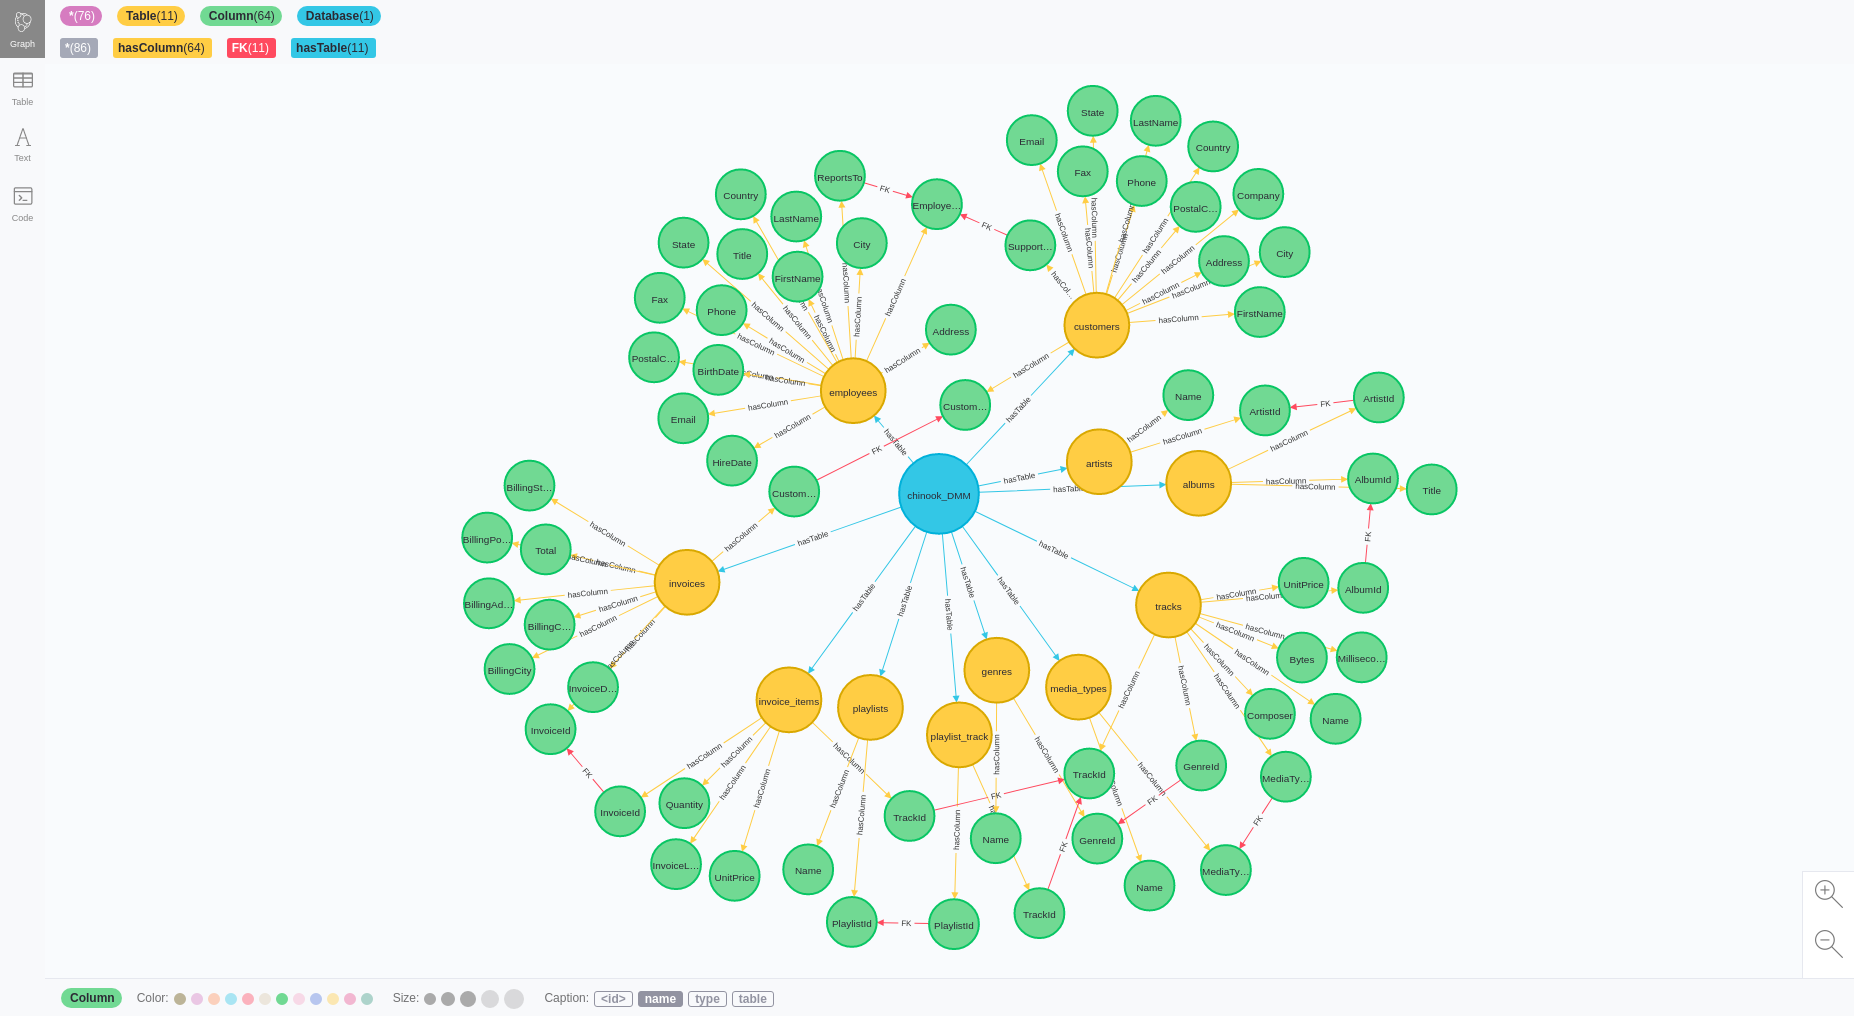
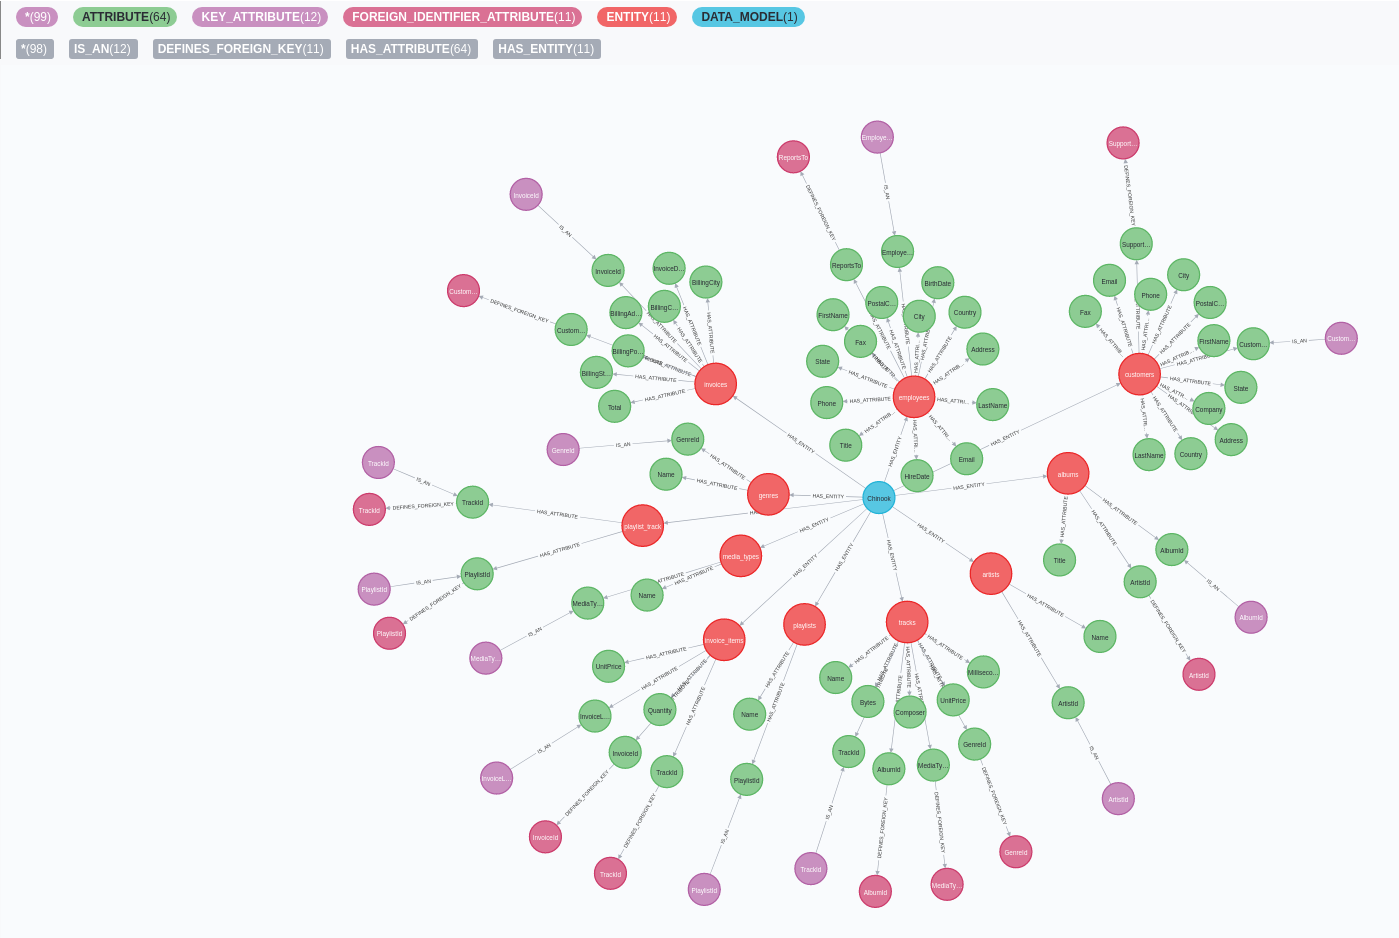
Refactor dmmm implementation according to outline model

diff --git a/main.py b/main.py
@@ -138,50 +138,71 @@ foreign_key_model = QStringListModel()
 # Beginning of Neo4j operations
 neo4j = Neo4jOperations("bolt://localhost:7687", "neo4j", "123456")
 
-mainNodeName = "chinook_DMM"
-mainNodeType = "Database"
-tableNodeType = "Table"
-columnNodeType = "Column"
-dbToTableRelationship = "hasTable"
-tableToColumnRelationship = "hasColumn"
-columnToColumnForeignKeyRelationship = "FK"
+neo4j.create_node("Chinook", "DATA_MODEL")
 
-neo4j.create_node(mainNodeName, mainNodeType)
+for entity_name in table_names_list:
+    # create entity to neo4j
+    neo4j.create_node(entity_name, "ENTITY")
+    # create relationship between data model and entity
+    neo4j.create_relationship("Chinook", "DATA_MODEL", entity_name, "ENTITY", "HAS_ENTITY")
 
-for table_name in table_names_list:
-    # add table names to neo4j
-    neo4j.create_node(table_name, tableNodeType)
-    neo4j.create_relationship(mainNodeName, mainNodeType, table_name, tableNodeType, dbToTableRelationship)
-
-for table_name in table_names_list:
-    # add column names and their types to neo4j
-    rows = dbOperations.select_all_column_names_and_types(table_name)
+for entity_name in table_names_list:
+    rows = dbOperations.select_all_column_names_and_types(entity_name)
     for row in rows:
-        column_name = str(row[1])
-        column_type = str(row[2])
-        neo4j.create_column_node(column_name, table_name, column_type)
-        neo4j.create_relationship_table_to_column(table_name, tableNodeType, column_name, table_name,
-                                                  tableToColumnRelationship)
+        attribute_name = str(row[1])
+        attribute_type = str(row[2])
+        is_attribute_pk = int(row[5])
 
-for table_name in table_names_list:
-    # add foreign key relationship between column names to neo4j
-    rows = dbOperations.select_all_foreign_keys(table_name)
+        # create attribute with attr type and its related entity
+        neo4j.create_attribute_node(attribute_name, attribute_type, entity_name)
+        # create relationship between entity and its attribute
+        query = """
+                MATCH (a:ENTITY), (b:ATTRIBUTE)
+                WHERE a.name='%s' AND b.entity='%s'
+                MERGE  (a)-[:%s]->(b)
+                """ % (entity_name, entity_name, "HAS_ATTRIBUTE")
+        neo4j.run_custom_query(query)
+
+        if is_attribute_pk:
+            # create key attribute with its related entity
+            neo4j.create_key_attribute_node(attribute_name, entity_name)
+            # create relationship between attribute and key attribute
+            query = """
+                    MATCH (a:KEY_ATTRIBUTE), (b:ATTRIBUTE)
+                    WHERE a.name=b.name AND a.entity=b.entity
+                    MERGE  (a)-[:IS_AN]->(b)
+                    """
+            neo4j.run_custom_query(query)
+
+    # find foreign identifier attributes
+    rows = dbOperations.select_all_foreign_keys(entity_name)
     for row in rows:
-        from_column_name = str(row[3])
-        from_table_name = table_name
-        to_column_name = str(row[4])
-        to_table_name = str(row[2])
+        from_entity = entity_name
+        to_entity = str(row[2])
+        from_attribute = str(row[3])
+        to_attribute = str(row[4])
 
-        neo4j.create_relationship_column_to_column_fk(from_column_name, from_table_name, to_column_name,
-                                                      to_table_name, columnToColumnForeignKeyRelationship)
+        # create foreign identifier attribute with from-to entity name and from-to attr name
+        neo4j.create_fia_node(from_attribute, from_entity, to_entity, from_attribute, to_attribute)
+        # create relationship between attribute and foreign identifier attribute
+        query = """
+                MATCH (a:ATTRIBUTE), (b:FOREIGN_IDENTIFIER_ATTRIBUTE)
+                WHERE a.name=b.name AND a.entity=b.from_entity
+                MERGE  (a)-[:DEFINES_FOREIGN_KEY]->(b)
+                """
+        neo4j.run_custom_query(query)
 
 neo4j.close()
 # End of Neo4j operations
 
+
 def create_dmmm_outline():
+    neo4j = Neo4jOperations("bolt://localhost:7687", "neo4j", "123456")
+
     neo4j.create_node("DATA MODEL", "DATA_MODEL")
     neo4j.create_node("DATA MODEL ENTITY", "DATA_MODEL_ENTITY")
-    neo4j.create_relationship("DATA MODEL", "DATA_MODEL", "DATA MODEL ENTITY", "DATA_MODEL_ENTITY", "DefinesBusinessContextFor")
+    neo4j.create_relationship("DATA MODEL", "DATA_MODEL", "DATA MODEL ENTITY", "DATA_MODEL_ENTITY",
+                              "DefinesBusinessContextFor")
     neo4j.create_node("ENTITY", "ENTITY")
     neo4j.create_relationship("ENTITY", "ENTITY", "DATA MODEL ENTITY", "DATA_MODEL_ENTITY", "HasItsBusinessContext")
     neo4j.create_node("RELATIONSHIP", "RELATIONSHIP")
@@ -191,19 +212,32 @@ def create_dmmm_outline():
     neo4j.create_relationship("ENTITY", "ENTITY", "ATTRIBUTE", "ATTRIBUTE", "HasItsProperties")
     neo4j.create_node("FOREIGN IDENTIFIER", "FOREIGN_IDENTIFIER")
     neo4j.create_relationship("ATTRIBUTE", "ATTRIBUTE", "FOREIGN IDENTIFIER", "FOREIGN_IDENTIFIER", "ContributesTo")
-    neo4j.create_relationship("FOREIGN IDENTIFIER", "FOREIGN_IDENTIFIER", "RELATIONSHIP", "RELATIONSHIP", "ProvidesThePath")
+    neo4j.create_relationship("FOREIGN IDENTIFIER", "FOREIGN_IDENTIFIER", "RELATIONSHIP", "RELATIONSHIP",
+                              "ProvidesThePath")
+    neo4j.create_node("FOREIGN IDENTIFIER ATTRIBUTE", "FOREIGN_IDENTIFIER_ATTRIBUTE")
+    neo4j.create_relationship("FOREIGN IDENTIFIER", "FOREIGN_IDENTIFIER", "FOREIGN IDENTIFIER ATTRIBUTE",
+                              "FOREIGN_IDENTIFIER_ATTRIBUTE", "IsMadeUpOf")
+    neo4j.create_relationship("ATTRIBUTE", "ATTRIBUTE", "FOREIGN IDENTIFIER ATTRIBUTE",
+                              "FOREIGN_IDENTIFIER_ATTRIBUTE", "DefinesForeignKeyRoleOf")
     neo4j.create_node("DOMAIN", "DOMAIN")
     neo4j.create_relationship("ATTRIBUTE", "ATTRIBUTE", "DOMAIN", "DOMAIN", "ConstrainsTheValuesOf")
     neo4j.create_relationship("DOMAIN", "DOMAIN", "ATTRIBUTE", "ATTRIBUTE", "HasTheSetOf")
     neo4j.create_node("ATTRIBUTE TYPE", "ATTRIBUTE_TYPE")
     neo4j.create_relationship("ATTRIBUTE TYPE", "ATTRIBUTE_TYPE", "DOMAIN", "DOMAIN", "ConstrainsTheGenericNatureOf")
-    neo4j.create_relationship("ATTRIBUTE TYPE", "ATTRIBUTE_TYPE", "ATTRIBUTE", "ATTRIBUTE", "ConstrainsTheGenericNatureOf")
+    neo4j.create_relationship("ATTRIBUTE TYPE", "ATTRIBUTE_TYPE", "ATTRIBUTE", "ATTRIBUTE",
+                              "ConstrainsTheGenericNatureOf")
     neo4j.create_node("IDENTIFIER", "IDENTIFIER")
     neo4j.create_relationship("ATTRIBUTE", "ATTRIBUTE", "IDENTIFIER", "IDENTIFIER", "FormsTheComponent")
     neo4j.create_relationship("ENTITY", "ENTITY", "IDENTIFIER", "IDENTIFIER", "IdentifiedBy")
     neo4j.create_node("KEY ATTRIBUTE", "KEY_ATTRIBUTE")
     neo4j.create_relationship("KEY ATTRIBUTE", "KEY_ATTRIBUTE", "ATTRIBUTE", "ATTRIBUTE", "IsAn")
     neo4j.create_relationship("IDENTIFIER", "IDENTIFIER", "KEY ATTRIBUTE", "KEY_ATTRIBUTE", "IsComposedOf")
+
+    neo4j.close()
+
+
+# create dmmm outline of chinook database
+# create_dmmm_outline()
 
 
 if __name__ == "__main__":

diff --git a/neo4joperations.py b/neo4joperations.py
@@ -24,20 +24,8 @@ class Neo4jOperations:
         else:
             return False  # node exists
 
-    def check_column_node(self, name, tableName, type):
-        query = """
-            MATCH (a:Column {name: '%s', table: '%s', type: '%s'})
-            RETURN (COUNT(a))
-            """ % (name, tableName, type)
-        results = self.session.run(query)
-
-        for result in results:
-            count = result[0]
-
-        if count == 0:
-            return True  # node does not exist
-        else:
-            return False  # node exists
+    def run_custom_query(self, query):
+        self.session.run(query)
 
     def create_node(self, name, nodeType):
         if self.check_node(name, nodeType):
@@ -50,16 +38,24 @@ class Neo4jOperations:
             print("Node is already existent")
             return False
 
-    def create_column_node(self, name, tableName, type):
-        if self.check_column_node(name, tableName, type):
-            query = """
-                    MERGE (a:Column {name: '%s', table: '%s', type: '%s'})
-                    """ % (name, tableName, type)
-            self.session.run(query)
-            return True
-        else:
-            print("Node is already existent")
-            return False
+    def create_attribute_node(self, name, attr_type, entity_name):
+        query = """
+                MERGE (a:ATTRIBUTE {name: '%s', attr_type: '%s', entity: '%s'})
+                """ % (name, attr_type, entity_name)
+        self.session.run(query)
+
+    def create_key_attribute_node(self, name, entity_name):
+        query = """
+                MERGE (a:KEY_ATTRIBUTE {name: '%s', entity: '%s'})
+                """ % (name, entity_name)
+        self.session.run(query)
+
+    def create_fia_node(self, name, from_entity, to_entity, from_attr, to_attr):
+        query = """
+                MERGE (a:FOREIGN_IDENTIFIER_ATTRIBUTE {name: '%s', from_entity: '%s', to_entity: '%s', from_attr: '%s', 
+                to_attr: '%s'})
+                """ % (name, from_entity, to_entity, from_attr, to_attr)
+        self.session.run(query)
 
     def create_relationship(self, fromName, fromNodeType, toName, toNodeType, relationName):
         query = """
@@ -67,20 +63,4 @@ class Neo4jOperations:
                 WHERE a.name='%s' AND b.name='%s'
                 MERGE  (a)-[:%s]->(b)
                 """ % (fromNodeType, toNodeType, fromName, toName, relationName)
-        self.session.run(query)
-
-    def create_relationship_table_to_column(self, fromName, fromNodeType, toName, toTableName, relationName):
-        query = """
-                MATCH (a:%s), (b:Column)
-                WHERE a.name='%s' AND b.name='%s' AND b.table='%s'
-                MERGE  (a)-[:%s]->(b)
-                """ % (fromNodeType, fromName, toName, toTableName, relationName)
-        self.session.run(query)
-
-    def create_relationship_column_to_column_fk(self, fromName, fromTableName, toName, toTableName, relationName):
-        query = """
-                MATCH (a:Column), (b:Column)
-                WHERE a.name='%s' AND a.table='%s' AND b.name='%s' AND b.table='%s'
-                MERGE  (a)-[:%s]->(b)
-                """ % (fromName, fromTableName, toName, toTableName, relationName)
         self.session.run(query)
